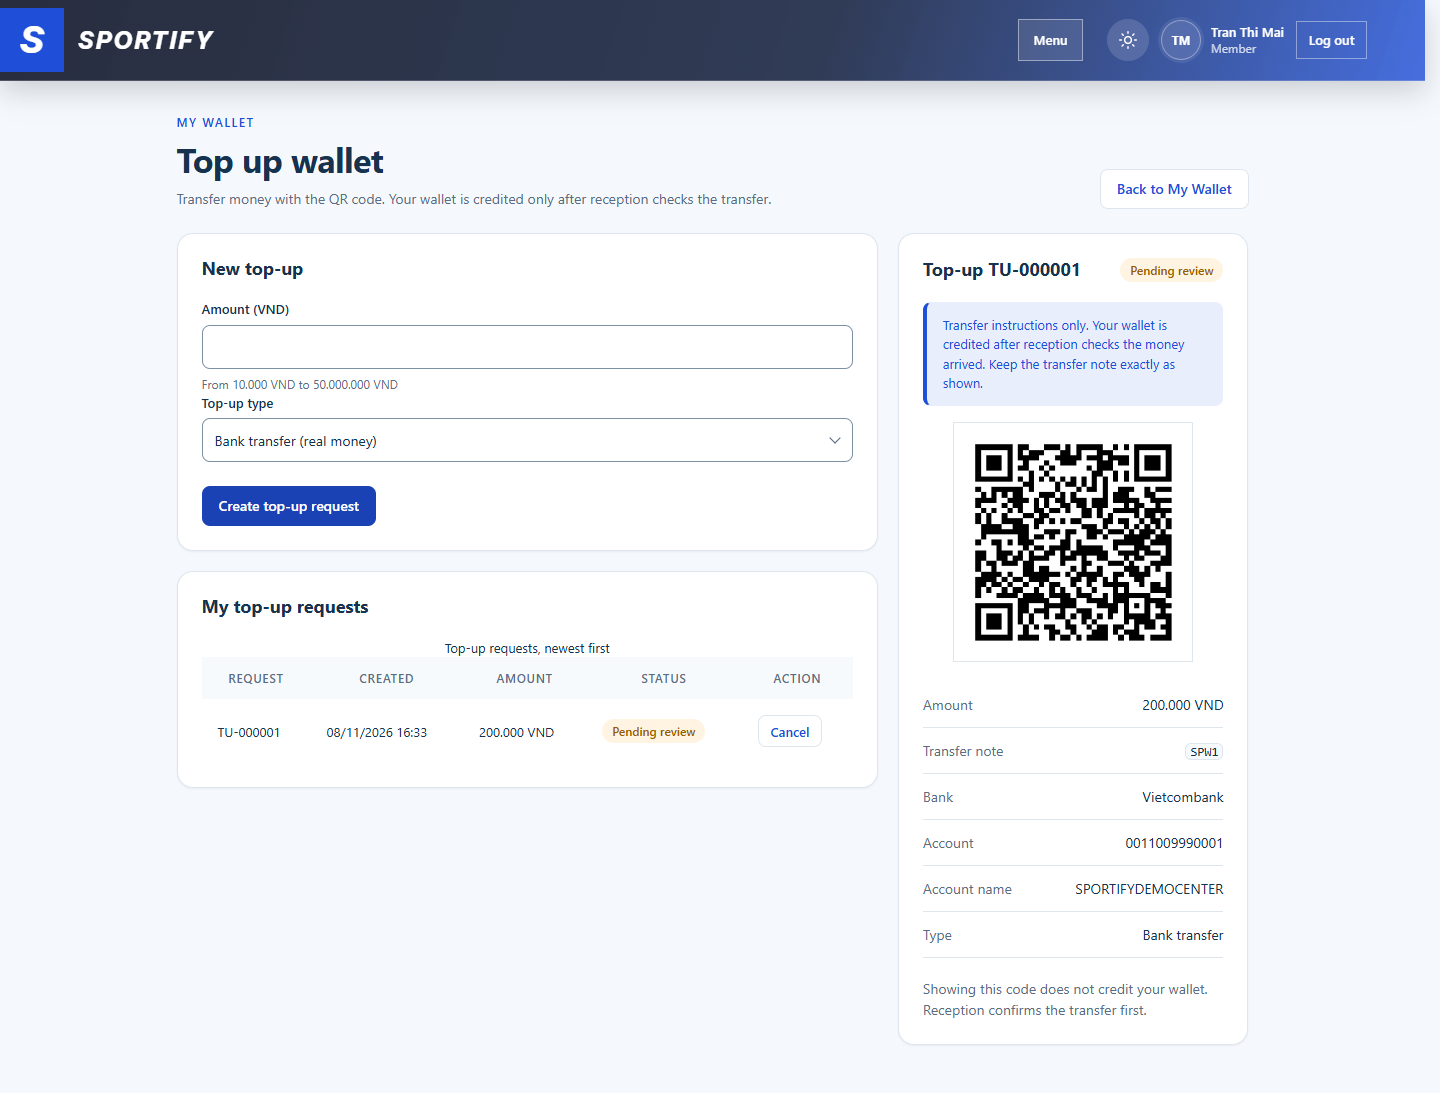
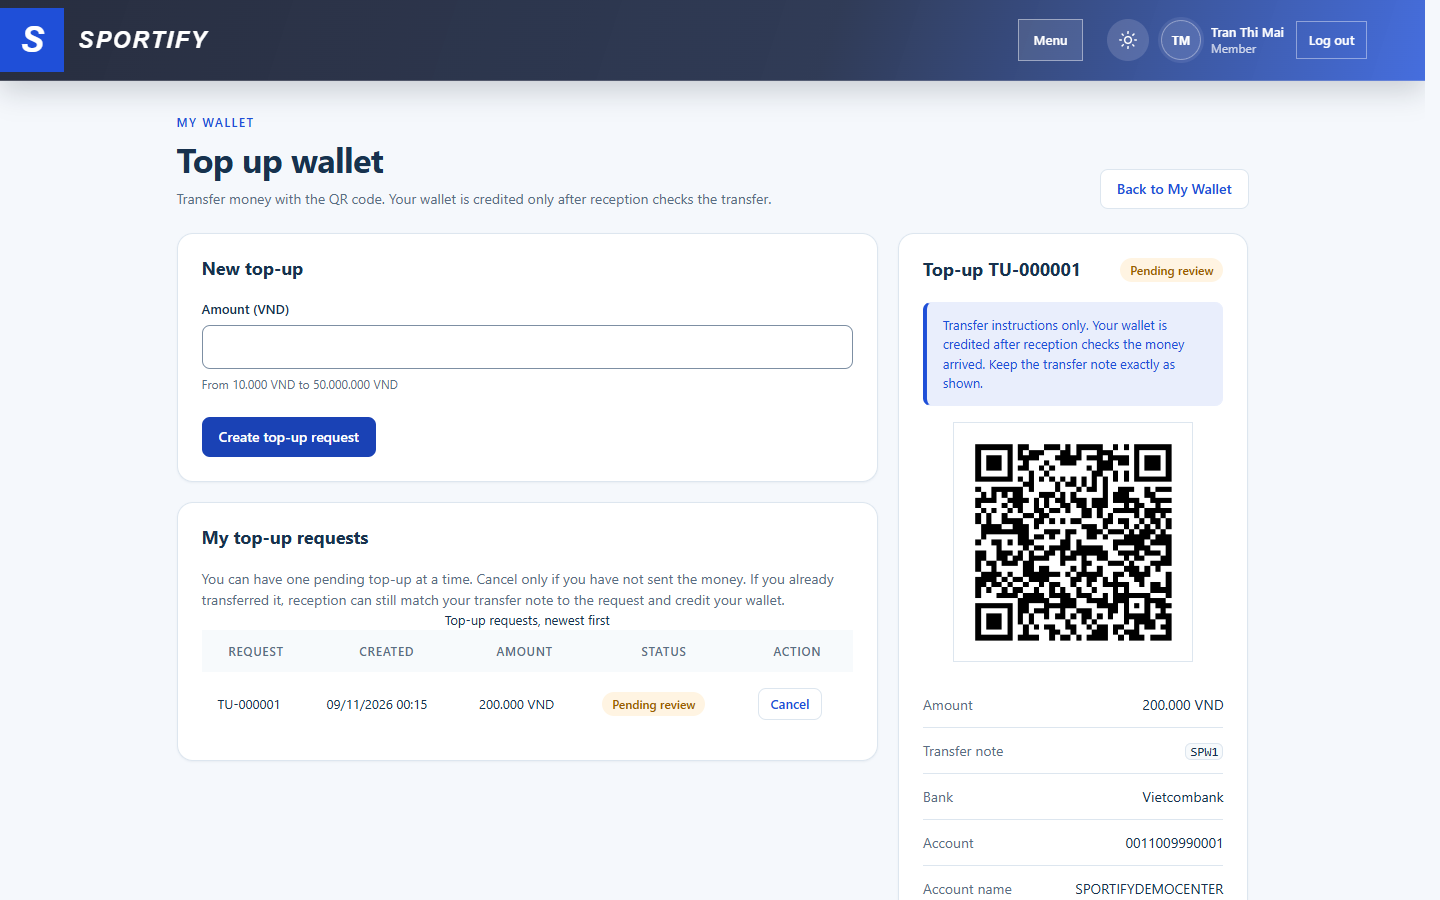
docs(mw-04): re-capture desktop evidence at the fixed head
Eight 1440x900 Chrome screenshots of a797f5ae on a disposable database
(dropped afterwards) with a synthetic receiving account: pending QR, second
request refused, confirm, lost confirmation response, late payment refused while
another top-up is pending and then confirmed, wallet credited once per request,
and the non-payable guard. Replaces the screenshots taken before the review fix.

diff --git a/tasks/Member-Wallet-Release (i)/evidence/MW-04/README.md b/tasks/Member-Wallet-Release (i)/evidence/MW-04/README.md
@@ -1,28 +1,34 @@
-# MW-04 evidence - QR wallet top-up verification
+# MW-04 evidence - QR wallet top-up verification (re-captured after CODEOWNER review)
 
-- Branch: `fix/flow-3-mw-04-topup` (stacked on `fix/flow-3-mw-03-wallet-core`)
-- Captured: 2026-11-08 16:33 Asia/Bangkok
-- Browser: Google Chrome via Playwright (channel `chrome`), viewport 1440x900, light theme
-- Backend: jar built from this branch, profiles `dev,demo`, port 18080, throwaway database `sportify_mw_evidence_1794130003` (fresh V1-V51 plus demo seeds). Not the shared `sportify` database.
-- Receiving account: SYNTHETIC. Bank BIN 970436, account `0011009990001`, name `SPORTIFYDEMOCENTER`, passed as JVM properties for this run only, with a copy of the repository bank directory whose timestamp was refreshed. No real account, no money moved. Demo top-ups enabled with `-Dapp.wallet.simulated-topups-enabled=true` (default is off).
-- Frontend: local Vite dev server on port 3000
-- Fixture: synthetic BE-07 accounts `mai.standard@example.com` (MEMBER) and `lan.reception@example.com` (RECEPTIONIST); bank references such as `FT26110800123` are invented
-- Capture script: `ev.py` + `mw04.py` (kept outside the repository)
+- Code under test: `a797f5ae` (branch `fix/flow-3-mw-04-topup`, base `main` after #250 and #253 were merged). The jar was built from this commit.
+- Captured: 2026-11-09 00:15 Asia/Bangkok. Replaces the screenshots captured on 2026-11-08 before the review fixes.
+- Browser: Google Chrome 157 driven by Playwright (`playwright-core`), headless, viewport 1440x900, light theme
+- Backend: jar on port 18080, profiles `dev,demo`, JDK 25, throwaway database `sportify_mw_evidence_1794157867` on local SQL Server (fresh V1-V51 plus demo seeds). Not the shared `sportify` database. Dropped after capture.
+- Receiving account: SYNTHETIC. BIN 970436, account `0011009990001`, name `SPORTIFYDEMOCENTER`, passed as command-line properties for this run only, with a copy of the repository bank directory whose `capturedAt` was refreshed. No real account, no money moved. Demo (SIMULATED) top-ups left at the default (off).
+- Screenshot 08 comes from the same database after restarting the backend with `live-instructions-enabled=false` (no verified receiving account).
+- Frontend: Vite dev server on port 3000 from the same commit, `VITE_API_BASE_URL=http://localhost:18080/api/v1`
+- Fixture: synthetic BE-07 accounts `mai.standard@example.com` (MEMBER) and `lan.reception@example.com` (RECEPTIONIST); bank references such as `FT26110900101` are invented
+- Capture script: `capture.cjs` (kept outside the repository)
 
 | File | Role and route | Steps | Expected | Observed |
 |---|---|---|---|---|
-| `screenshots/01-member-topup-qr-pending.png` | MEMBER `/member/wallet/topup` | Request 200,000 VND | VietQR with transfer note `SPW1`, status Pending review, wallet not credited | As expected |
-| `screenshots/02-receptionist-review-before-confirm.png` | RECEPTIONIST `/reception/wallet/topups` | Review TU-000001, type received amount and bank reference | Amount is typed, not prefilled | As expected |
-| `screenshots/03-receptionist-confirmed.png` | RECEPTIONIST `/reception/wallet/topups` | Confirm, filter Confirmed | CONFIRMED by Lan with reference | As expected |
-| `screenshots/04-member-wallet-credited.png` | MEMBER `/member/wallet` | Open My Wallet | 200,000 VND available, one Top-up ledger row | As expected |
+| `screenshots/01-member-topup-qr-pending.png` | MEMBER `/member/wallet/topup` | Request 200,000 VND | VietQR to the synthetic account, note `SPW1`, Pending review, wallet not credited | As expected |
+| `screenshots/02-member-second-topup-refused-one-in-flight.png` | MEMBER `/member/wallet/topup` | Request 50,000 VND while TU-000001 is pending | Refused: one in-flight wallet operation | As expected |
+| `screenshots/03-receptionist-confirmed.png` | RECEPTIONIST `/reception/wallet/topups` | Review TU-000001, type amount and bank reference, confirm | `TU-000001 confirmed` | As expected |
+| `screenshots/04-receptionist-lost-response-shows-committed-outcome.png` | RECEPTIONIST `/reception/wallet/topups` | Confirm TU-000002; the request reaches the server and commits, the response is dropped on the way back (Playwright `route.fetch()` then `route.abort()`) | Page re-reads the request and shows it confirmed once; no second confirm request is sent | As expected (1 confirm request) |
+| `screenshots/05-late-payment-refused-while-another-topup-pending.png` | RECEPTIONIST, filter Cancelled by member | Member cancelled TU-000003, then created TU-000004; Review late payment on TU-000003 with note | Refused: another wallet request (TU-000004) in progress; balance unchanged | As expected |
+| `screenshots/06-late-payment-confirmed-after-other-request-resolved.png` | RECEPTIONIST, filter Confirmed | Reject TU-000004, then confirm the late payment TU-000003 with note | TU-000003 CONFIRMED by Lan | As expected |
+| `screenshots/07-member-wallet-credited-once-per-request.png` | MEMBER `/member/wallet` | Open My Wallet | 350,000 VND available, three Top-up ledger rows (200,000 + 100,000 + 50,000) | As expected |
+| `screenshots/08-nonpayable-guard-bank-topup-disabled.png` | MEMBER `/member/wallet/topup` (no verified account) | Open the page | Warning shown, Create button disabled | As expected |
 
-## API checks made in the same run
+## API checks made in the same run (as the signed-in user)
 
 | Check | Result |
 |---|---|
-| Member balance while the top-up is PENDING | 0 |
-| Second confirmation of TU-000001 | 409 `TOPUP_NOT_PENDING`; balance stays 200,000 with 1 ledger entry |
-| Confirm another request with 90,000 received for 100,000 | 409 `TOPUP_AMOUNT_MISMATCH` |
-| Confirm with a bank reference already used | 409 `TOPUP_DUPLICATE_REFERENCE` |
-| Member calling the Receptionist confirm endpoint | 403 |
-| Final balance | 200,000 VND |
+| Member balance while TU-000001 is PENDING | 0 |
+| Second confirmation of TU-000001 | 409 `TOPUP_NOT_PENDING` |
+| Confirm requests sent by the page during the lost-response case | 1 |
+| Balance after the refused late confirmation (TU-000004 pending) | 300,000 (unchanged) |
+| Final wallet | 350,000 VND available, 3 ledger entries |
+| `POST /member/wallet/topups` ACTUAL with no verified receiving account | 409 `TOPUP_NOT_PAYABLE` |
+| `GET /member/wallet/topups` `realTopUpsAvailable` with no verified account | `false` |
